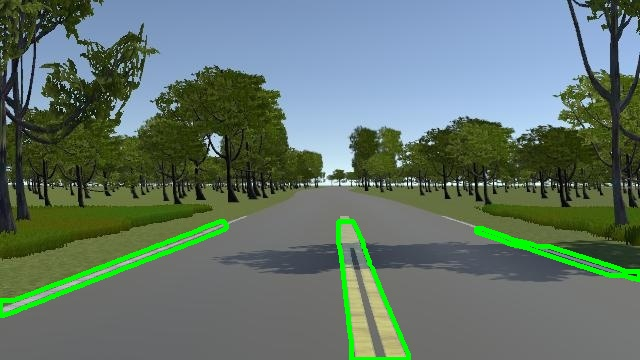
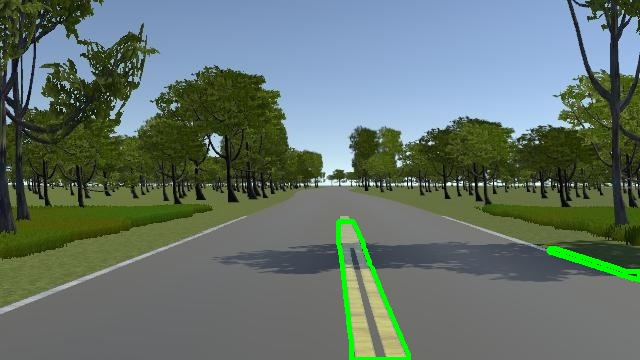
contours

Changed region(s): [[0.0, 0.6111, 0.375, 0.8861], [0.7188, 0.6111, 0.9688, 0.7944]]

diff --git a/client.py b/client.py
@@ -15,8 +15,6 @@ port = 54321
   
 # connect to the server on local computer 
 s.connect(('127.0.0.1', port)) 
-last_time = 0
-count = 0
 angle = 10
 speed = 100
 if __name__ == "__main__":
@@ -53,19 +51,14 @@ if __name__ == "__main__":
             #Img data recv from server
             jpg_original = base64.b64decode(data_recv["Img"])
             jpg_as_np = np.frombuffer(jpg_original, dtype=np.uint8)
-            image = cv2.imdecode(jpg_as_np, flags=1)
+            _image = cv2.imdecode(jpg_as_np, flags=1)
+            image = frame_processor(_image)
             cv2.imshow("IMG", image)
             print("Img Shape: ",image.shape)
             
             #save image
-            # save 1 img / 3 second
-            if time.time() - last_time > 3:
-                last_time = time.time()
-                _image_name = "./img/_img_{}.jpg".format(count)
-                image_name = "./img/img_{}.jpg".format(count)
-                count += 1
-                cv2.imwrite(_image_name, image)                
-                cv2.imwrite(image_name, frame_processor(image))
+            # _image_name = "./img/img_cache.jpg"
+            # cv2.imwrite(_image_name, image)                
             key = cv2.waitKey(1)
         
             

diff --git a/detectLane.py b/detectLane.py
@@ -173,19 +173,11 @@ def frame_processor(image):
     cv2.RETR_EXTERNAL, cv2.CHAIN_APPROX_NONE) 
 	cv2.drawContours(image, contours, -1, (0, 255, 0), 3)
 
-
-	# Applying hough transform to get straight lines from our image 
-	# and find the lane lines
-	# Will explain Hough Transform in detail in further steps
 	hough = hough_transform(erosion)
-	#lastly we draw the lines on our resulting frame and return it as output 
 	result = draw_lane_lines(image, lane_lines(image, hough))
 	return image
 
-image_name = "./img/test.jpg"
-_image = cv2.imread('./img/_img_18.jpg')
-image = frame_processor(_image)
-cv2.imwrite(image_name, image)
-# y, x = image.shape[:2]
-# plt.imshow(image, cmap='gray',  interpolation='bilinear', extent=[0,1,0,1], aspect=y/x)
-# plt.show()
+# image_name = "./img/test.jpg"
+# _image = cv2.imread('./img/_img_18.jpg')
+# image = frame_processor(_image)
+# cv2.imwrite(image_name, image)
